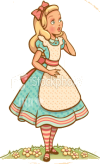
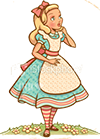
reduce image size, place the opp at a new random location

diff --git a/game.js b/game.js
@@ -1,98 +1,83 @@
-let canvas; 
-let context; 
+let canvas;
+let context;
 
-canvas=document.createElement("canvas"); 
-context = canvas.getContext("2d"); 
-canvas.width = 600; 
-canvas.height = 500; 
+canvas = document.createElement("canvas");
+context = canvas.getContext("2d");
+canvas.width = 600;
+canvas.height = 500;
 
-document.body.appendChild(canvas); 
+document.body.appendChild(canvas);
 
-let startTime = Date.now(); 
-let elapsedTime; 
-let roundTime= 30; 
+let startTime = Date.now();
+let elapsedTime;
+let roundTime = 30;
 
-let bgImage; 
-let oppImage; 
-let catcherImage; 
+let bgImage;
+let oppImage;
+let catcherImage;
 
-let bgReady; 
-let oppReady; 
-let catcherReady; 
-let oppNum=0; 
+let bgReady;
+let oppReady;
+let catcherReady;
 
-function loadImages()
-{ bgImage = new Image(); 
-  bgImage.onload = function(){ bgReady=true; };
-  bgImage.src= "images/catchoppsbg.jpeg";
-  oppImage = new Image(); 
-  oppImage.onload = function(){ oppReady=true; };
-  oppImage.src= "images/opps2.png"; 
-  catcherImage= new Image();
-  catcherImage.onload =function(){catcherReady=true;};
-  catcherImage.src="images/catcher4.png"; 
+function loadImages() {
+  bgImage = new Image();
+  bgImage.onload = function () { bgReady = true; };
+  bgImage.src = "images/catchoppsbg.jpeg";
+
+  oppImage = new Image();
+  oppImage.onload = function () { oppReady = true; };
+  oppImage.src = "images/opps2.png";
+
+  catcherImage = new Image();
+  catcherImage.onload = function () { catcherReady = true; };
+  catcherImage.src = "images/catcher4.png"
 }
-let oppX=100;
-let oppY=100;
-let catcherX= canvas.width/2;
-let catcherY= canvas.height/2; 
-let keyDown={}; 
+let oppX = 100;
+let oppY = 100;
+let catcherX = canvas.width / 2;
+let catcherY = canvas.height / 2;
+let keyDown = {};
 
-function setupKeyboardListeners()
-{ addEventListener("keydown", function(key){ keyDown[key.keyCode]=true;  }, false);
- addEventListener("keyup", function(key){ delete keyDown[key.keyCode]},false );
+function setupKeyboardListeners() {
+  addEventListener("keydown", function (key) { keyDown[key.keyCode] = true; }, false);
+  addEventListener("keyup", function (key) { delete keyDown[key.keyCode] }, false);
 }
-let update = function ()
-{elapsedTime= Math.floor((Date.now() - startTime)/1000);  
+let update = function () {
+  elapsedTime = Math.floor((Date.now() - startTime) / 1000);
 
-if (38 in keyDown){if (catcherY > 0 && catcherY < canvas.height) {catcherY -= 5;}
-else {catcherY +=2; }}
+  if (38 in keyDown) { catcherY -= 5; }
+  if (40 in keyDown) { catcherY += 5; }
+  if (37 in keyDown) { catcherX -= 5; }
+  if (39 in keyDown) { catcherX += 5; }
 
-if (40 in keyDown){if (catcherY > 0 && catcherY < canvas.height ) {catcherY += 5;} 
-else {catcherY -=2; }} 
-
-if (37 in keyDown){if (catcherX >= 0 && catcherY <= canvas.width  ) {catcherX -= 5;}}
-if (39 in keyDown){if (catcherX >= 0 && catcherX <= canvas.width  ) {catcherX += 5;}}
-
-if (
-    catcherX <= (oppX + 50)
-    && oppX <= (catcherX + 50)
-    && catcherY <= (oppY + 50)
-    && oppY <= (catcherY + 50)
-  )
-  { 
-    oppNum++; 
-    oppImage.src= "images/opp5.png"; 
+  if (
+    catcherX <= (oppX + 70)
+    && oppX <= (catcherX + 100)
+    && catcherY <= (oppY + 75)
+    && oppY <= (catcherY + 132)
+  ) {
     // Pick a new location for the monster.
     // Note: Change this to place the monster at a new, random location.
-    oppX = Math.floor(Math.random()*550);
-    oppY = Math.floor(Math.random()*450);
+    oppX = Math.random() * (canvas.width - 80);
+    oppY = Math.random() * (canvas.height - 80);
   }
 };
-let render = function()
-{    let timeleft =roundTime-elapsedTime; 
-    
-    if (bgReady ) {context.drawImage(bgImage,0,0); }
-    if (oppReady) {context.drawImage(oppImage,oppX,oppY); }
-    if (catcherReady) { context.drawImage(catcherImage, catcherX, catcherY); }
-    if (timeleft>0)
-    {context.fillText(`Remaining time: ${timeleft}`,20,50);}
-    else {context.fillText(`Game Over`,250,200); deleteAnimationFram (main); }
-    context.fillText(`Caught stars: ${oppNum}`,20,30);
-    //if ( catcherX == canvas.width || catcherY == canvas.height ) 
-    //{ catcherX = canvas.width; catcherY = canvas.height; }
-
- };
- 
-let main = function()
-{ update();  render(); requestAnimationFrame(main); 
-}; 
+let render = function () {
+  if (bgReady) { context.drawImage(bgImage, 0, 0); }
+  if (oppReady) { context.drawImage(oppImage, oppX, oppY); }
+  if (catcherReady) { context.drawImage(catcherImage, catcherX, catcherY); }
+  context.fillText(`Remaining time: ${roundTime - elapsedTime}`, 20, 100)
+}
+let main = function () {
+  update(); render(); requestAnimationFrame(main);
+}
 let w = window;
 requestAnimationFrame = w.requestAnimationFrame || w.webkitRequestAnimationFrame || w.msRequestAnimationFrame || w.mozRequestAnimationFrame;
 
 loadImages();
-setupKeyboardListeners(); 
-main(); 
+setupKeyboardListeners();
+main();
 
 
 
@@ -102,5 +87,5 @@ main();
 
 
 
-    
+
 
